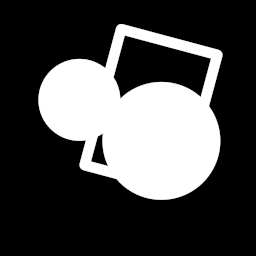
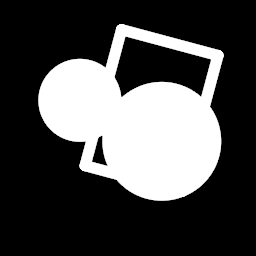
Remove dependency on cv

diff --git a/examples/signed_distance_field/main.py b/examples/signed_distance_field/main.py
@@ -4,12 +4,12 @@ import sgl
 import slangpy as spy
 import pathlib
 import numpy as np
-from PIL import Image
-import cv2
 import argparse
 import sys
+import shape_utils
 
-def create_image(width=256, height=256, scale=1):
+
+def create_image(width=256, height=256, antialiased=False):
     """
     Creates a test image containing geometric shapes (circles and a rotated rectangle)
     with optional antialiasing based on the scale parameter.
@@ -23,84 +23,82 @@ def create_image(width=256, height=256, scale=1):
     Args:
         width (int): Width of the output image
         height (int): Height of the output image
-        scale (int): Resolution multiplier for antialiasing. If > 1, the image is created
-                    at a higher resolution and then downsampled for antialiasing.
+        antialiased (bool): Draw with analytical coverage
 
     Returns:
         numpy.ndarray: A floating-point RGBA image array with values normalized to [0,1]
     """
-    antialiased = scale > 1
-    image = np.zeros((height * scale, width * scale, 4), dtype=np.uint8)
-    image[:,:,3] = 255
+    # Create a bitmap with RGBA format
+    bitmap = sgl.Bitmap(pixel_format=sgl.Bitmap.PixelFormat.rgba,
+                        component_type=sgl.Struct.Type.uint8,
+                        width=width,
+                        height=height)
 
-    cv2.circle(image, 
-               center=(int(0.31 * width * scale), int(0.39 * height * scale)), 
-               radius=int(0.16 * min(width, height) * scale), 
-               color=(255, 255, 255, 255), 
-               thickness=-1, 
-               lineType=cv2.LINE_AA if antialiased else cv2.LINE_8)
+    # Get numpy array view of bitmap data
+    image = np.array(bitmap, copy=False)
+    image.fill(0)
+    image[:, :, 3] = 255  # Set alpha to fully opaque
 
-    cv2.circle(image, 
-               center=(int(0.63 * width * scale), int(0.55 * height * scale)), 
-               radius=int(0.23 * min(width, height) * scale), 
-               color=(255, 255, 255, 255), 
-               thickness=-1, 
-               lineType=cv2.LINE_AA if antialiased else cv2.LINE_8)
+    white = [255, 255, 255, 255]
+    thickness = 0.039 * min(width, height)
 
-    rect_center = (int(0.59 * width * scale), int(0.43 * height * scale))
-    rect_size = (int(0.39 * width * scale), int(0.55 * height * scale))
-    angle = 15 # degrees
-    rect = cv2.boxPoints((rect_center, rect_size, angle))
-    rect = np.int32(rect)
+    # Draw shapes
+    shape_utils.draw_circle(image,
+                            center_x=0.31 * width,
+                            center_y=0.39 * height,
+                            radius=0.16 * min(width, height),
+                            color=white,
+                            antialiased=antialiased)
 
-    cv2.polylines(image, 
-                  [rect], 
-                  isClosed=True, 
-                  color=(255, 255, 255, 255), 
-                  thickness=int(0.039 * min(width, height) * scale), 
-                  lineType=cv2.LINE_AA if antialiased else cv2.LINE_8)
+    shape_utils.draw_circle(image,
+                            center_x=0.63 * width,
+                            center_y=0.55 * height,
+                            radius=0.23 * min(width, height),
+                            color=white,
+                            antialiased=antialiased)
 
-    if scale > 1:
-        image = cv2.resize(image, (width, height), 
-                          interpolation=cv2.INTER_AREA)
+    shape_utils.draw_rotated_rect(image,
+                                  center_x=0.59 * width,
+                                  center_y=0.43 * height,
+                                  width=0.39 * width,
+                                  height=0.55 * height,
+                                  angle=15,
+                                  thickness=thickness,
+                                  color=white,
+                                  antialiased=antialiased)
 
     return image.astype(np.float32) / 255.0
 
-def load_and_process_image(image_path):
+
+def load_image(image_path):
     """
-    Loads an image from path, converts it to binary and returns it in the required format.
+    Loads an image from path, converts it to grayscale
     Preserves the original image dimensions.
 
     Args:
         image_path (str): Path to the input image
 
     Returns:
-        tuple: (image array, width, height) where image array is a floating-point RGBA 
-               image array with values normalized to [0,1]
+        tuple: (image array, width, height) where image array is a
+        floating-point RGBA image array
     """
-    # Read image
-    img = cv2.imread(image_path, cv2.IMREAD_UNCHANGED)
-    if img is None:
-        raise ValueError(f"Failed to load image: {image_path}")
+    bitmap = sgl.Bitmap(image_path)
 
-    # Get original dimensions
-    height, width = img.shape[:2]
+    # Convert to grayscale
+    if bitmap.pixel_format != sgl.Bitmap.PixelFormat.rgba:
+        bitmap = bitmap.convert(pixel_format=sgl.Bitmap.PixelFormat.rgba)
+    image = np.array(bitmap, copy=False)
+    gray = np.mean(image[:, :, :3], axis=2)
 
-    # Convert to grayscale if needed
-    if len(img.shape) == 3:
-        img = cv2.cvtColor(img, cv2.COLOR_BGR2GRAY)
+    # Create final RGBA result
+    result = np.zeros((bitmap.height, bitmap.width, 4), dtype=np.float32)
+    result[:, :, 0] = gray
+    result[:, :, 1] = gray
+    result[:, :, 2] = gray
+    result[:, :, 3] = 1.0
 
-    # Threshold to binary
-    _, img = cv2.threshold(img, 127, 255, cv2.THRESH_BINARY)
+    return result, bitmap.width, bitmap.height
 
-    # Convert to RGBA float32
-    result = np.zeros((height, width, 4), dtype=np.float32)
-    result[:,:,0] = img.astype(np.float32) / 255.0
-    result[:,:,1] = result[:,:,0]
-    result[:,:,2] = result[:,:,0]
-    result[:,:,3] = 1.0
-
-    return result, width, height
 
 def process_image(device, module, image, width, height, name_suffix):
     """
@@ -121,19 +119,18 @@ def process_image(device, module, image, width, height, name_suffix):
     Returns:
         numpy.ndarray: The computed distance field
     """
-    input_tex = device.create_texture(
-        width=width, height=height,
-        format=sgl.Format.rgba32_float,
-        usage=sgl.ResourceUsage.shader_resource,
-        data=image
-    )
+    input_tex = device.create_texture(width=width,
+                                      height=height,
+                                      format=sgl.Format.rgba32_float,
+                                      usage=sgl.ResourceUsage.shader_resource,
+                                      data=image)
     sgl.tev.show(input_tex, name=f'input_{name_suffix}')
 
-    dist_tex = device.create_texture(
-        width=width, height=height,
-        format=sgl.Format.rg32_float,
-        usage=sgl.ResourceUsage.shader_resource | sgl.ResourceUsage.unordered_access
-    )
+    dist_tex = device.create_texture(width=width,
+                                     height=height,
+                                     format=sgl.Format.rg32_float,
+                                     usage=sgl.ResourceUsage.shader_resource
+                                     | sgl.ResourceUsage.unordered_access)
 
     # Initialize
     module.init_eikonal(spy.grid((width, height)), input_tex, dist_tex)
@@ -145,17 +142,17 @@ def process_image(device, module, image, width, height, name_suffix):
     distances = dist_tex.to_numpy()
     sgl.tev.show(dist_tex, name=f'final_distances_{name_suffix}')
 
-    result = module.generate_isolines.map((0, 1))(distances, _result='numpy')
+    result = module.generate_isolines(distances, _result='numpy')
 
-    output_tex = device.create_texture(
-        width=width, height=height,
-        format=sgl.Format.rgba32_float,
-        usage=sgl.ResourceUsage.shader_resource,
-        data=result
-    )
+    output_tex = device.create_texture(width=width,
+                                       height=height,
+                                       format=sgl.Format.rgba32_float,
+                                       usage=sgl.ResourceUsage.shader_resource,
+                                       data=result)
     sgl.tev.show(output_tex, name=f'isolines_{name_suffix}')
 
     return distances
+
 
 def main():
     """
@@ -164,8 +161,12 @@ def main():
     2. Either processes a provided input image or generates and processes test images
     3. Generates and visualizes distance fields and isolines
     """
-    parser = argparse.ArgumentParser(description='Generate distance fields from binary images')
-    parser.add_argument('--input', '-i', type=str, help='Path to input image (optional)')
+    parser = argparse.ArgumentParser(
+        description='Generate distance fields from binary images')
+    parser.add_argument('--input',
+                        '-i',
+                        type=str,
+                        help='Path to input image (optional)')
     args = parser.parse_args()
 
     device = spy.create_device(include_paths=[
@@ -176,20 +177,24 @@ def main():
 
     if args.input:
         try:
-            input_image, width, height = load_and_process_image(args.input)
-            distances = process_image(device, module, input_image, width, height, "input")
+            input_image, width, height = load_image(args.input)
+            distances = process_image(device, module, input_image, width,
+                                      height, "input")
         except Exception as e:
             print(f"Error processing input image: {e}", file=sys.stderr)
             sys.exit(1)
     else:
         width, height = 256, 256  # Default size for test images
 
-        aliased_image = create_image(width, height, scale=1)
-        aliased_distances = process_image(device, module, aliased_image, width, height, "aliased")
+        aliased_image = create_image(width, height, antialiased=False)
+        aliased_distances = process_image(device, module, aliased_image, width,
+                                          height, "aliased")
 
-        antialiased_image = create_image(width, height, scale=4)
-        antialiased_distances = process_image(device, module, antialiased_image, width, height, "antialiased")
+        antialiased_image = create_image(width, height, antialiased=True)
+        antialiased_distances = process_image(device, module,
+                                              antialiased_image, width, height,
+                                              "antialiased")
+
 
 if __name__ == "__main__":
     main()
-

diff --git a/examples/signed_distance_field/shape_utils.py b/examples/signed_distance_field/shape_utils.py
@@ -1,0 +1,100 @@
+# SPDX-License-Identifier: Apache-2.0
+
+import numpy as np
+
+
+def draw_circle(image: np.ndarray,
+                center_x: float,
+                center_y: float,
+                radius: float,
+                color: list[int],
+                antialiased: bool = False):
+    """Draw a filled circle"""
+    height, width = image.shape[:2]
+    y, x = np.ogrid[-center_y:height - center_y, -center_x:width - center_x]
+
+    if antialiased:
+        # Not strictly correct coverage, but this is just an example
+        dist = np.sqrt(x * x + y * y) - radius
+        coverage = np.clip(1.0 - dist, 0.0, 1.0)
+        for i in range(4):
+            current = image[:, :, i]
+            new_coverage = np.minimum(current + coverage, 1.0)
+            image[:, :, i] = np.where(dist <= 1.0, color[i] * new_coverage,
+                                      image[:, :, i])
+    else:
+        mask = x * x + y * y <= radius * radius
+        image[mask] = color
+
+
+def draw_line(image: np.ndarray,
+              x1: float,
+              y1: float,
+              x2: float,
+              y2: float,
+              thickness: float,
+              color: list[int],
+              antialiased: bool = False):
+    """Draw a thick line"""
+    height, width = image.shape[:2]
+    y, x = np.mgrid[0:height, 0:width]
+    x = x.astype(np.float32)
+    y = y.astype(np.float32)
+    dx = x2 - x1
+    dy = y2 - y1
+    line_length = np.sqrt(dx * dx + dy * dy)
+    if line_length == 0:
+        return
+    nx = dx / line_length
+    ny = dy / line_length
+    px = x - x1
+    py = y - y1
+    proj = (px * nx + py * ny)
+    proj = np.clip(proj, 0, line_length)
+    closest_x = x1 + proj * nx
+    closest_y = y1 + proj * ny
+    dist = np.sqrt((x - closest_x)**2 + (y - closest_y)**2)
+    if antialiased:
+        # Calculate coverage using smooth falloff
+        # Half thickness plus 1 pixel for antialiasing
+        coverage = np.clip(thickness / 2 + 1 - dist, 0.0, 1.0)
+        for i in range(4):
+            current = image[:, :, i] / color[i] if color[i] != 0 else 0
+            new_coverage = np.minimum(current + coverage, 1.0)
+            image[:, :, i] = np.where(dist <= thickness / 2 + 1,
+                                      color[i] * new_coverage, image[:, :, i])
+    else:
+        mask = dist <= thickness / 2
+        image[mask] = color
+
+
+def draw_rotated_rect(image: np.ndarray,
+                      center_x: float,
+                      center_y: float,
+                      width: float,
+                      height: float,
+                      angle: float,
+                      thickness: float,
+                      color: list[int],
+                      antialiased: bool = False):
+    """Draw a non-filled rectangle"""
+    angle = np.radians(angle)
+    cos_a = np.cos(angle)
+    sin_a = np.sin(angle)
+
+    half_w = width / 2
+    half_h = height / 2
+    corners = np.array([[-half_w, -half_h], [half_w, -half_h],
+                        [half_w, half_h], [-half_w, half_h]])
+
+    rotated = np.zeros_like(corners)
+    for i in range(4):
+        rotated[i,
+                0] = corners[i, 0] * cos_a - corners[i, 1] * sin_a + center_x
+        rotated[i,
+                1] = corners[i, 0] * sin_a + corners[i, 1] * cos_a + center_y
+
+    for i in range(4):
+        j = (i + 1) % 4
+        draw_line(image, rotated[i, 0], rotated[i, 1], rotated[j, 0],
+                  rotated[j, 1], thickness, color, antialiased)
